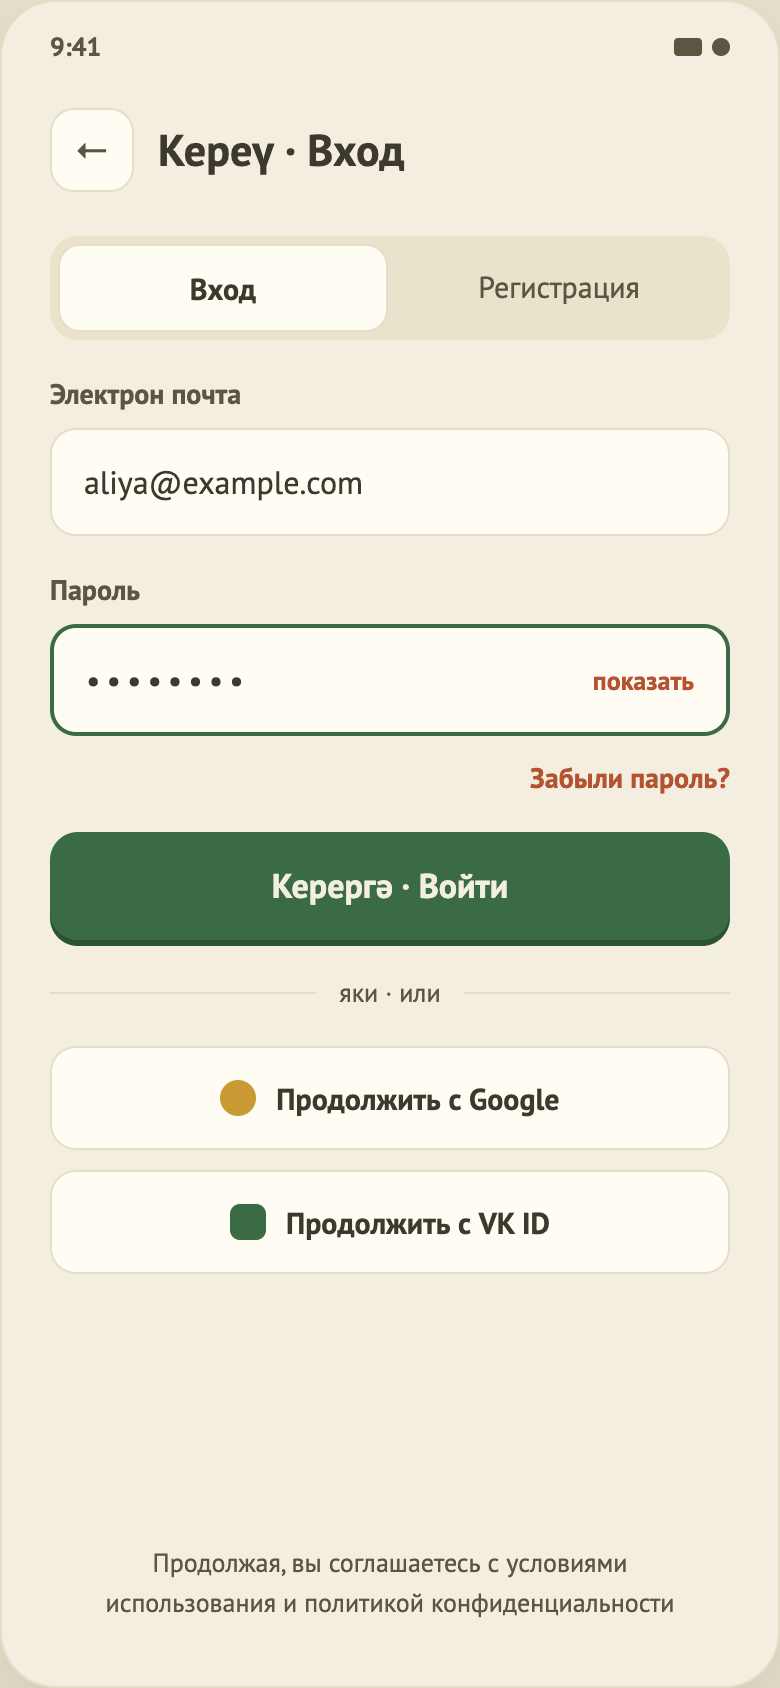
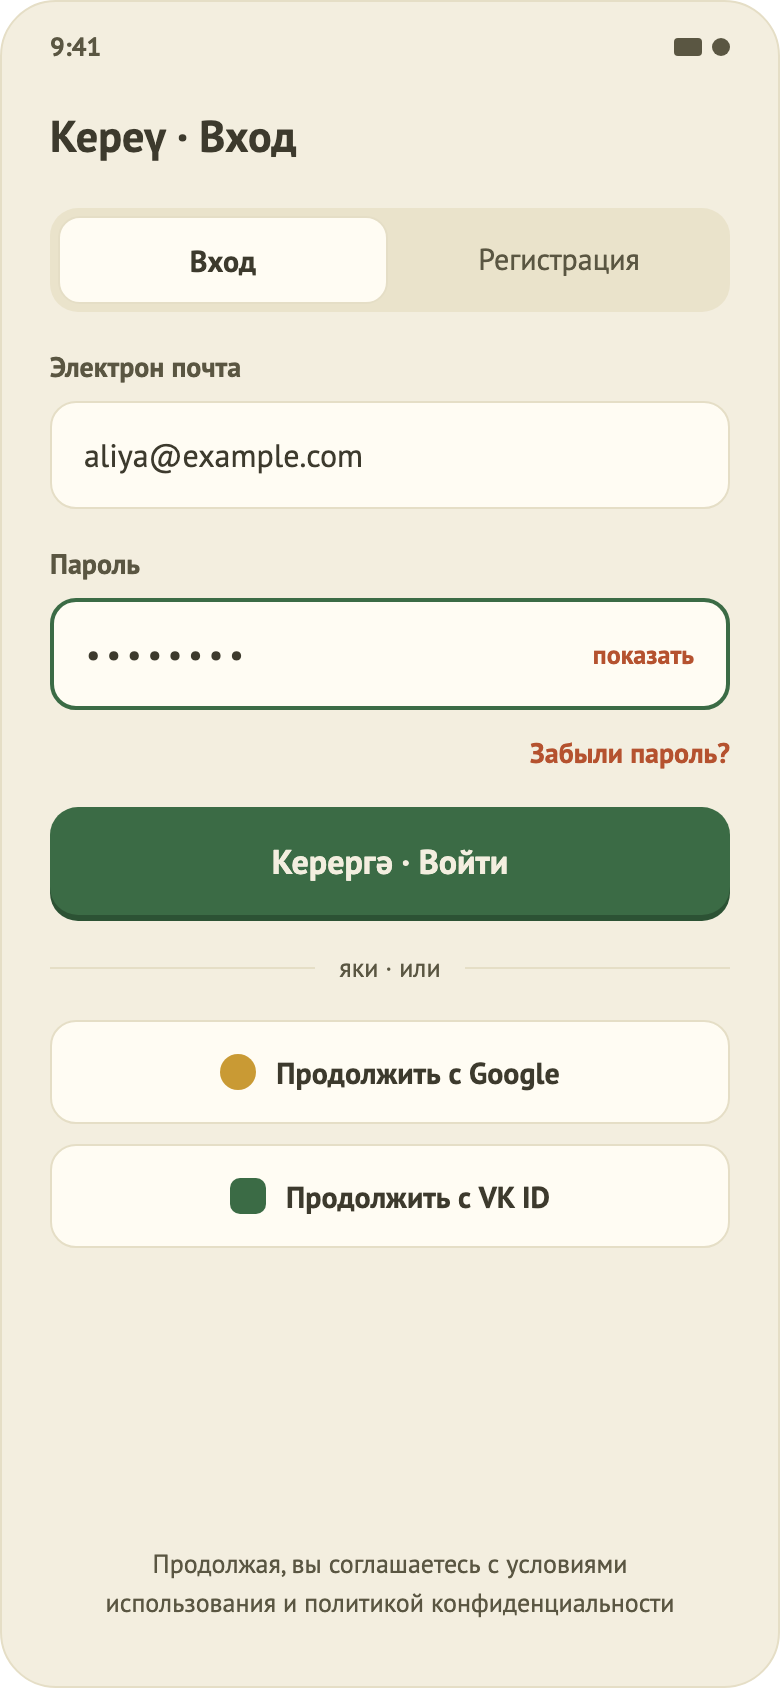
Remove back button from auth screen

diff --git a/shared/src/commonMain/kotlin/ru/tatarcha/tatlearn/feature/auth/AuthContent.kt b/shared/src/commonMain/kotlin/ru/tatarcha/tatlearn/feature/auth/AuthContent.kt
@@ -55,7 +55,6 @@ import ru.tatarcha.tatlearn.core.designsystem.component.TamyrToastKind
 import ru.tatarcha.tatlearn.core.designsystem.theme.TamyrSizes
 import ru.tatarcha.tatlearn.core.designsystem.theme.TamyrTheme
 import tatlearn.shared.generated.resources.Res
-import tatlearn.shared.generated.resources.auth_back
 import tatlearn.shared.generated.resources.auth_email_label
 import tatlearn.shared.generated.resources.auth_error_email_empty
 import tatlearn.shared.generated.resources.auth_error_email_invalid
@@ -81,8 +80,6 @@ import tatlearn.shared.generated.resources.auth_title_sign_in
 import tatlearn.shared.generated.resources.auth_title_sign_up
 import tatlearn.shared.generated.resources.auth_vk
 
-private val BackButtonSize = 40.dp
-private val BackButtonShape = RoundedCornerShape(12.dp)
 private val SocialHeight = 50.dp
 private val ProviderMarkSize = 18.dp
 private const val PASSWORD_MASK = '•'
@@ -94,28 +91,12 @@ fun AuthContent(state: AuthUiState, onEvent: (AuthUiEvent) -> Unit) {
 
     Box(Modifier.fillMaxSize()) {
         Column(Modifier.fillMaxSize().background(TamyrTheme.colors.background).safeDrawingPadding().imePadding()) {
-            Row(
-                Modifier.padding(start = TamyrTheme.spacing.screen, end = TamyrTheme.spacing.screen, top = 18.dp),
-                horizontalArrangement = Arrangement.spacedBy(TamyrTheme.spacing.m),
-                verticalAlignment = Alignment.CenterVertically,
-            ) {
-                Box(
-                    Modifier
-                        .size(BackButtonSize)
-                        .clip(BackButtonShape)
-                        .background(TamyrTheme.colors.surface)
-                        .border(TamyrSizes.borderThin, TamyrTheme.colors.border, BackButtonShape)
-                        .clickable(role = Role.Button) { onEvent(AuthUiEvent.BackClicked) },
-                    contentAlignment = Alignment.Center,
-                ) {
-                    Text(stringResource(Res.string.auth_back), style = TamyrTheme.typography.title18, color = TamyrTheme.colors.textSecondary)
-                }
-                Text(
-                    stringResource(if (signIn) Res.string.auth_title_sign_in else Res.string.auth_title_sign_up),
-                    style = TamyrTheme.typography.title22,
-                    color = TamyrTheme.colors.textPrimary,
-                )
-            }
+            Text(
+                text = stringResource(if (signIn) Res.string.auth_title_sign_in else Res.string.auth_title_sign_up),
+                style = TamyrTheme.typography.title22,
+                color = TamyrTheme.colors.textPrimary,
+                modifier = Modifier.padding(start = TamyrTheme.spacing.screen, end = TamyrTheme.spacing.screen, top = 18.dp),
+            )
 
             Column(
                 Modifier.weight(1f).verticalScroll(rememberScrollState()).padding(horizontal = TamyrTheme.spacing.screen, vertical = 22.dp),

diff --git a/design/Tatar App Screens.dc.html b/design/Tatar App Screens.dc.html
@@ -292,10 +292,7 @@
       <div style="font-family:ui-monospace,monospace;font-size:12px;color:#5A5642">02 · вход / регистрация</div>
       <div style="width:390px;height:844px;background:#F3EEDF;border:1px solid #E5DEC6;border-radius:28px;box-shadow:0 14px 36px rgba(61,58,45,.14);overflow:hidden;display:flex;flex-direction:column;box-sizing:border-box">
         <div style="display:flex;justify-content:space-between;align-items:center;padding:14px 24px 4px;font-size:13px;font-weight:700;color:#5A5642"><div>9:41</div><div style="display:flex;gap:5px;align-items:center"><div style="width:14px;height:9px;background:#5A5642;border-radius:2px"></div><div style="width:9px;height:9px;background:#5A5642;border-radius:50%"></div></div></div>
-        <div style="padding:18px 24px 0;display:flex;align-items:center;gap:12px">
-          <div style="width:40px;height:40px;border-radius:12px;background:#FFFCF3;border:1px solid #E5DEC6;display:flex;align-items:center;justify-content:center;font-size:18px;color:#5A5642">←</div>
-          <div style="font-size:22px;font-weight:700">Кереү · Вход</div>
-        </div>
+        <div style="padding:18px 24px 0;font-size:22px;font-weight:700">Кереү · Вход</div>
         <div style="padding:22px 24px;display:flex;flex-direction:column;gap:18px">
           <div style="display:flex;background:#EAE3CB;border-radius:14px;padding:4px;gap:4px">
             <div style="flex:1;height:42px;border-radius:11px;background:#FFFCF3;border:1px solid #E5DEC6;display:flex;align-items:center;justify-content:center;font-size:15px;font-weight:700">Вход</div>

diff --git a/shared/src/commonMain/kotlin/ru/tatarcha/tatlearn/feature/auth/AuthScene.kt b/shared/src/commonMain/kotlin/ru/tatarcha/tatlearn/feature/auth/AuthScene.kt
@@ -11,14 +11,12 @@ import org.koin.core.parameter.parametersOf
 fun AuthScene(
     mode: AuthMode,
     onNavigateToHome: () -> Unit,
-    onNavigateBack: () -> Unit,
     viewModel: AuthViewModel = koinViewModel(parameters = { parametersOf(mode) }),
 ) {
     LaunchedEffect(viewModel) {
         viewModel.effects.collect { effect ->
             when (effect) {
                 AuthUiEffect.NavigateToHome -> onNavigateToHome()
-                AuthUiEffect.NavigateBack -> onNavigateBack()
             }
         }
     }

diff --git a/shared/src/commonMain/kotlin/ru/tatarcha/tatlearn/feature/auth/AuthViewModel.kt b/shared/src/commonMain/kotlin/ru/tatarcha/tatlearn/feature/auth/AuthViewModel.kt
@@ -26,7 +26,6 @@ class AuthViewModel(
             // TODO(backend): настоящий OAuth. Пока кнопки соцсетей только сообщают, что вход недоступен.
             is AuthUiEvent.SocialClicked -> showToast(AuthToast.SocialUnavailable)
             AuthUiEvent.ToastDismissed -> hideToast()
-            AuthUiEvent.BackClicked -> sendEffect(AuthUiEffect.NavigateBack)
         }
     }
 

diff --git a/shared/src/commonMain/kotlin/ru/tatarcha/tatlearn/feature/auth/AuthContract.kt b/shared/src/commonMain/kotlin/ru/tatarcha/tatlearn/feature/auth/AuthContract.kt
@@ -35,10 +35,8 @@ sealed interface AuthUiEvent : UiEvent {
     data object SubmitClicked : AuthUiEvent
     data class SocialClicked(val provider: SocialProvider) : AuthUiEvent
     data object ToastDismissed : AuthUiEvent
-    data object BackClicked : AuthUiEvent
 }
 
 sealed interface AuthUiEffect : UiEffect {
     data object NavigateToHome : AuthUiEffect
-    data object NavigateBack : AuthUiEffect
 }

diff --git a/shared/src/commonMain/kotlin/ru/tatarcha/tatlearn/navigation/AppNavigation.kt b/shared/src/commonMain/kotlin/ru/tatarcha/tatlearn/navigation/AppNavigation.kt
@@ -75,7 +75,6 @@ fun AppNavigation(showDebugTools: Boolean = false) {
                     AuthScene(
                         mode = key.mode,
                         onNavigateToHome = { resetTo(HomeKey) },
-                        onNavigateBack = ::pop,
                     )
                 }
                 entry<HomeKey> {

diff --git a/.docs/tech/02-auth.md b/.docs/tech/02-auth.md
@@ -9,10 +9,10 @@
 
 ## Вход / выход
 - **Вход:** из Онбординга (режим зависит от кнопки) или со старта приложения (если онбординг уже виден, режим «Вход»).
-- **Выход:** успех → Home со сбросом стека (назад на Auth не вернуться); кнопка «←» → возврат на предыдущий экран.
+- **Выход:** успех → Home со сбросом стека (назад на Auth не вернуться); кнопки «назад» на экране нет, системный «назад» возвращает на предыдущий экран стека (онбординг, если он есть под Auth).
 
 ## Элементы UI
-1. Шапка: кнопка «←» (40dp) и заголовок («Кереү · Вход» / «Теркәлү · Регистрация»).
+1. Шапка: заголовок («Кереү · Вход» / «Теркәлү · Регистрация»).
 2. Переключатель вкладок `Вход | Регистрация`.
 3. Поле «Электрон почта» (клавиатура e-mail, `ImeAction.Next`, без автокоррекции и заглавной буквы) с текстом ошибки.
 4. Поле «Пароль» (маскирование `•`) с ссылкой «показать/скрыть» справа и текстом ошибки.
@@ -38,7 +38,6 @@
 | Ошибка запроса | `uiState.toast = AuthToast.RequestFailed(mode, code)` (код из `AppException`), вид `TamyrToastKind.Error`. Сеть (`NET_TIMEOUT`/`NET_ERROR`) -> «Проверьте интернет…», иначе «Код ошибки: …»; тексты отдельно для входа и регистрации. Новая отправка вызывает `hideToast()`. `TODO(backend)`: коды авторизации (неверный пароль, занятый e-mail). |
 | Соцвход (Google/VK) | **Заглушка:** репозиторий не вызывается, в `uiState.toast` ставится `AuthToast.SocialUnavailable`. `TODO(backend)`: настоящий OAuth. |
 | Уведомление (`TamyrToast`) | `AuthViewModel` держит `toastJob`: показ → `delay(TamyrMotion.TOAST_VISIBLE_MS)` (5 с) → `toast = null`. Новое уведомление отменяет предыдущий таймер и заменяет текст. `ToastDismissed` (крестик/свайп вверх) сразу скрывает. |
-| «←» | effect `NavigateBack` (если Auth — корень стека, действие ничего не делает). |
 | «Забыли пароль?» | Просто текст, не кликабелен (`TODO(design)`). |
 
 ### Что делает fake-бэкенд

diff --git a/shared/src/commonMain/kotlin/ru/tatarcha/tatlearn/feature/auth/CLAUDE.md b/shared/src/commonMain/kotlin/ru/tatarcha/tatlearn/feature/auth/CLAUDE.md
@@ -12,6 +12,7 @@
 - **Длина пароля проверяется только при регистрации**, при входе только пустота: иначе пользователь со старым коротким паролем не смог бы отправить форму. Правило «6 символов» временное, `TODO(backend)`.
 - **Ошибки полей показываются только при отправке и стираются при вводе в поле**, перепроверки на каждый символ и при потере фокуса нет. Рассматривали перепроверку после первой ошибки и проверку при уходе с поля, решили оставить простую схему. Вернуться к вопросу стоит вместе с оформлением ошибок полей в макете (`TODO(design)`).
 - **Отправка показывается спиннером на кнопке** (`TamyrButton(loading = true)`, `TamyrSpinner`), а не серой неактивной кнопкой: так видно, что запрос идёт, и кнопка не выглядит недоступной. Выбран круговой спиннер вместо брендовых ромбов (зелёный ромб на зелёной кнопке не виден). Поля и вкладки во время запроса пока не блокируются.
+- **На экране нет кнопки «назад»**: когда онбординг уже просмотрен, Auth стоит в корне стека и кнопка ничего не делала; возвращаться из входа в онбординг смысла нет. Убраны `BackClicked`/`NavigateBack` и строка `auth_back`. Системный «назад» не трогали: он по-прежнему возвращает на онбординг, если пользователь пришёл оттуда (`AppNavigation.pop`). Если его тоже надо запретить, добавить `NavigationBackHandler` в `AuthScene`.
 - Компоненты уведомления лежат в `core/designsystem/component` (`TamyrToast`, `TamyrToastHost`, `TamyrToastData`, `TamyrToastKind`); здесь используются виды `Info` (соцвход) и `Error` (ошибка запроса).
 - Имена `AuthScene`/`AuthContent` по скиллу `compose-style` (в остальных фичах пока `XRoute`/`XScreen`).
 

diff --git a/.docs/02-auth.md b/.docs/02-auth.md
@@ -7,10 +7,10 @@
 
 ## Откуда и куда
 - **Откуда:** из онбординга (режим зависит от нажатой кнопки) или сразу при запуске, если онбординг уже показывали (режим «Вход»).
-- **Куда:** успех → Главная, вернуться назад на этот экран нельзя. Стрелка «←» → предыдущий экран.
+- **Куда:** успех → Главная, вернуться назад на этот экран нельзя. Кнопки «назад» на экране нет; системный «назад» на Android возвращает на онбординг, если пользователь пришёл оттуда.
 
 ## Что на экране
-1. Заголовок («Кереү · Вход» или «Теркәлү · Регистрация») и кнопка «←».
+1. Заголовок («Кереү · Вход» или «Теркәлү · Регистрация»).
 2. Переключатель «Вход | Регистрация».
 3. Поле «Электрон почта».
 4. Поле «Пароль» со ссылкой «показать/скрыть».
